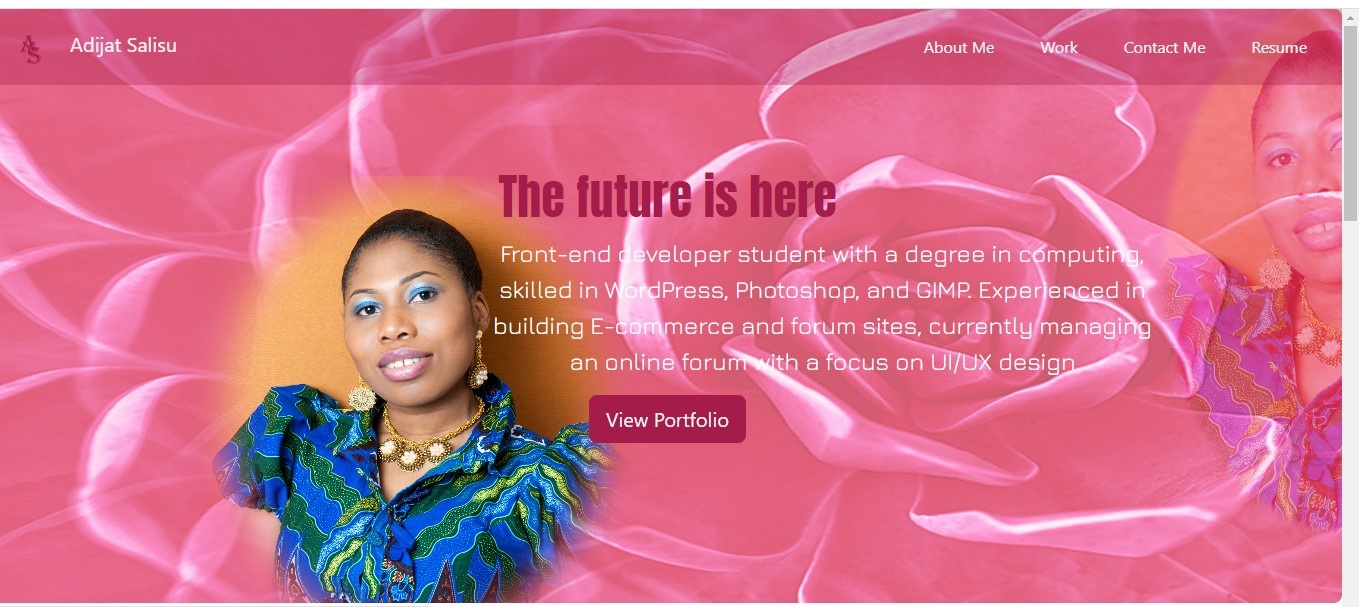
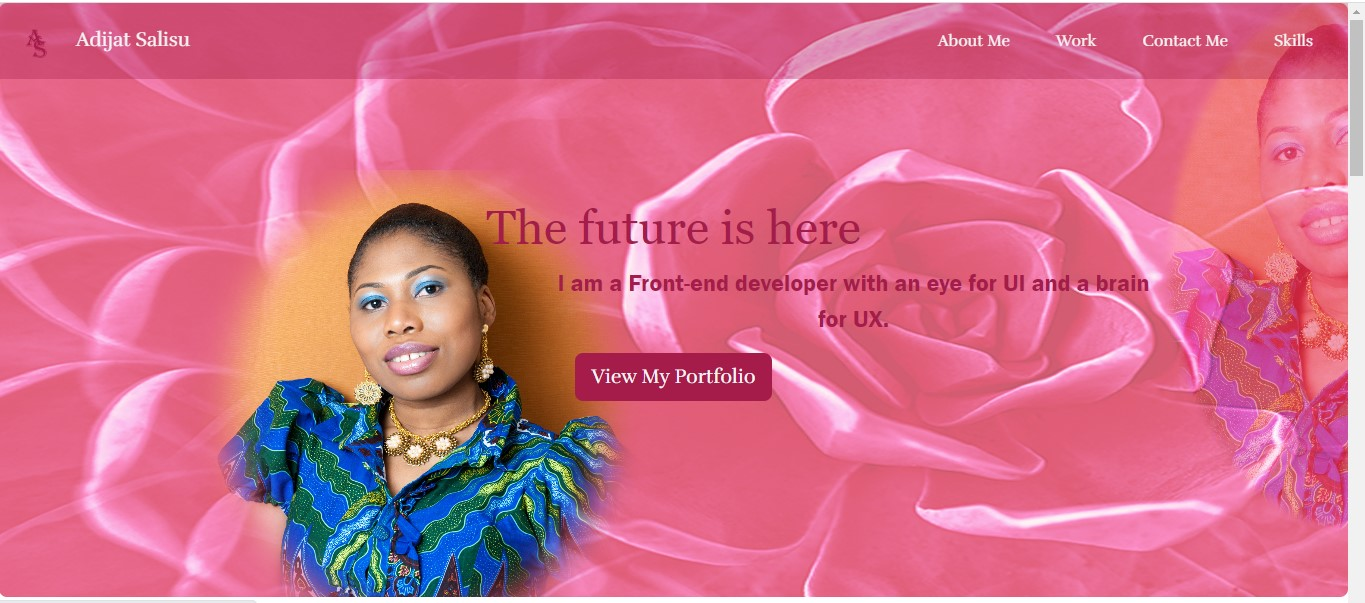
Added a readme.md, adjusted the layout and finished up the footer

diff --git a/index.html b/index.html
@@ -5,13 +5,13 @@
   <!-- Required meta tags -->
   <meta charset="utf-8">
   <meta name="viewport" content="width=device-width, initial-scale=1, shrink-to-fit=no">
-<!-- Google Font -->
-<link rel="preconnect" href="https://fonts.googleapis.com">
-<link rel="preconnect" href="https://fonts.gstatic.com" crossorigin>
-<link href="https://fonts.googleapis.com/css2?family=Roboto:wght@400;500;700&display=swap" rel="stylesheet">
+ <!-- Google Font -->
+ <link rel="preconnect" href="https://fonts.googleapis.com">
+ <link rel="preconnect" href="https://fonts.gstatic.com" crossorigin>
+ <link href="https://fonts.googleapis.com/css2?family=Rufina:wght@400;700&display=swap" rel="stylesheet">
   <!-- Bootstrap CSS -->
   <link href="https://cdn.jsdelivr.net/npm/bootstrap@5.3.0-alpha3/dist/css/bootstrap.min.css" rel="stylesheet" integrity="sha384-KK94CHFLLe+nY2dmCWGMq91rCGa5gtU4mk92HdvYe+M/SXH301p5ILy+dN9+nJOZ" crossorigin="anonymous">
-  <link href="https://fonts.googleapis.com/css?family=Anton|Jura&display=swap" rel="stylesheet">
+  <link href="https://fonts.googleapis.com/css2?family=Roboto:wght@400;500&display=swap" rel="stylesheet">
   <link rel="stylesheet" href="css/style.css">
 
   <title>Adijat-Salisu-Portfolio</title>

diff --git a/css/style.css b/css/style.css
@@ -1,19 +1,25 @@
 :root{
     --website-color: #a51c4b;
     --website-lighttext: #f5f5f5;
-    --bs-body-font-family: 'Roboto',sans-serif;
+    --bs-body-font-family: 'Rufina',sans-serif;
     
 }
 /* Text */
-h1, h2, h3 , h4, h5, h6 {
-    font-family: var(--bs-body-font-family), 'Helvetica', 'Arial', 'sans-serif';
-    --bs-heading-color: var(--website-color);
+h1{
+  font-family: Georgia, 'Times New Roman', Times, serif;
+  }
+   h2, h3 , h4, h5, h6 {
+    font-family:var(--bs-body-font-family), 'Helvetica', 'Arial', 'sans-serif';
+    color: var(--website-color);
   }
 
   p {
     font-family: var(--bs-body-font-family);
   }
   
+  body{
+    color: var(--website-color);
+  }
   
   
   /* Navigation bar */
@@ -90,8 +96,10 @@ h1, h2, h3 , h4, h5, h6 {
   }
   
   .jumboCopy p{
-      color: var(--website-lighttext);
+      color: var(--website-color);
       margin-left: 155px;
+      font-family: 'Franklin Gothic Medium', 'Arial Narrow', Arial, sans-serif;
+      padding-left: 50px;
   }
   
   
@@ -108,6 +116,10 @@ h1, h2, h3 , h4, h5, h6 {
   }
   .card {
     margin: 0 auto;
+  }
+
+  .card-body{
+    color: var(--website-color);
   }
   .content{
     padding: 50px;

diff --git a/README.md b/README.md
@@ -1,2 +1,157 @@
 # Bootstrap-Portfolio
-This is my portfolio web page, I will be building this portfolio layout using the Bootstrap CSS Framework. 
+
+<!-- PROJECT LOGO -->
+<br />
+<div align="center">
+  <a href="https://github.com/github_username/repo_name">
+    <img src="images/AS-logo.png" alt="Logo" width="80" height="80">
+  </a>
+
+<h3 align="center">Adijat Salisu Bootstrap Portfolio</h3>
+
+  <p align="center">
+    This is my portfolio web page, built this portfolio layout using the Bootstrap CSS Framework. 
+    <br />
+    <a href="https://github.com/addy306/Bootstrap-Portfolio"><strong>GitHub repository</strong></a>
+    <br />
+    <a href="https://github.com/addy306/Bootstrap-Portfolio"><strong>Deployed Website</strong></a>
+    <br />
+    <br />
+    
+  </p>
+</div>
+
+
+
+<!-- TABLE OF CONTENTS -->
+<details>
+  <summary>Table of Contents</summary>
+  <ol>
+    <li>
+      <a href="#about-the-project">About The Project</a>
+      <ul>
+        <li><a href="#built-with">Built With</a></li>
+      </ul>
+    </li>
+    <li>
+      <a href="#getting-started">Getting Started</a>
+      <ul>
+        <li><a href="#prerequisites">Prerequisites</a></li>
+        <li><a href="#installation">Installation</a></li>
+      </ul>
+    </li>
+    <li><a href="#usage">Usage</a></li>
+    <li><a href="#roadmap">Roadmap</a></li>
+    <li><a href="#contributing">Contributing</a></li>
+    <li><a href="#license">License</a></li>
+    <li><a href="#contact">Contact</a></li>
+    <li><a href="#acknowledgments">Acknowledgments</a></li>
+  </ol>
+</details>
+
+
+
+<!-- ABOUT THE PROJECT -->
+## About The Project
+
+[![Product Name Screen Shot][product-screenshot]](https://example.com)
+
+Here's a blank template to get started: To avoid retyping too much info. Do a search and replace with your text editor for the following: `github_username`, `repo_name`, `twitter_handle`, `linkedin_username`, `email_client`, `email`, `project_title`, `project_description`
+
+<p align="right">(<a href="#readme-top">back to top</a>)</p>
+
+
+
+### Built With
+
+
+* [![Bootstrap][Bootstrap.com]][Bootstrap-url]
+* HTML
+* CSS
+
+<p align="right">(<a href="#readme-top">back to top</a>)</p>
+
+
+
+<!-- GETTING STARTED -->
+## Getting Started
+
+This is an example of how you may give instructions on setting up your project locally.
+To get a local copy up and running follow these simple example steps.
+
+
+
+<p align="right">(<a href="#readme-top">back to top</a>)</p>
+
+
+
+
+# Webpage Features
+
+## Navbar and Banner
+![Screenshot of Webpage](./images/bootstrap-portfolio.jpg)
+
+## Portfolio Section
+![Screenshot of Webpage](./images/portfolio-sect.jpg)
+
+## Skill Section
+![Screenshot of Webpage](./images/skill-sect.jpg)
+
+## About Me & Contact Me
+![Screenshot of Webpage](./images/contact-about.jpg)
+
+## Footer
+![Screenshot of Webpage](./images/footer.jpg)
+
+Checkout my other project
+
+* [Responsive Webpage](https://addy306.github.io/responsive-portfolio-website/)
+ * [Horiseon Webpage](https://addy306.github.io/module1-challange/)
+
+<p align="right">(<a href="#readme-top">back to top</a>)</p>
+
+
+
+
+
+See the [open issues](https://github.com/github_username/repo_name/issues) for a full list of proposed features (and known issues).
+
+<p align="right">(<a href="#readme-top">back to top</a>)</p>
+
+
+
+<!-- CONTRIBUTING -->
+## Contributing
+
+Contributions are what make the open source community such an amazing place to learn, inspire, and create. Any contributions you make are **greatly appreciated**.
+
+If you have a suggestion that would make this better, please fork the repo and create a pull request. You can also simply open an issue with the tag "enhancement".
+Don't forget to give the project a star! Thanks again!
+
+1. Fork the Project
+2. Create your Feature Branch (`git checkout -b feature/AmazingFeature`)
+3. Commit your Changes (`git commit -m 'Add some AmazingFeature'`)
+4. Push to the Branch (`git push origin feature/AmazingFeature`)
+5. Open a Pull Request
+
+<p align="right">(<a href="#readme-top">back to top</a>)</p>
+
+
+
+<!-- LICENSE -->
+## License
+
+Distributed under the MIT License. See `LICENSE.txt` for more information.
+
+<p align="right">(<a href="#readme-top">back to top</a>)</p>
+
+
+
+
+
+Project Link: [https://github.com/github_username/repo_name](https://github.com/github_username/repo_name)
+
+<p align="right">(<a href="#readme-top">back to top</a>)</p>
+
+
+
